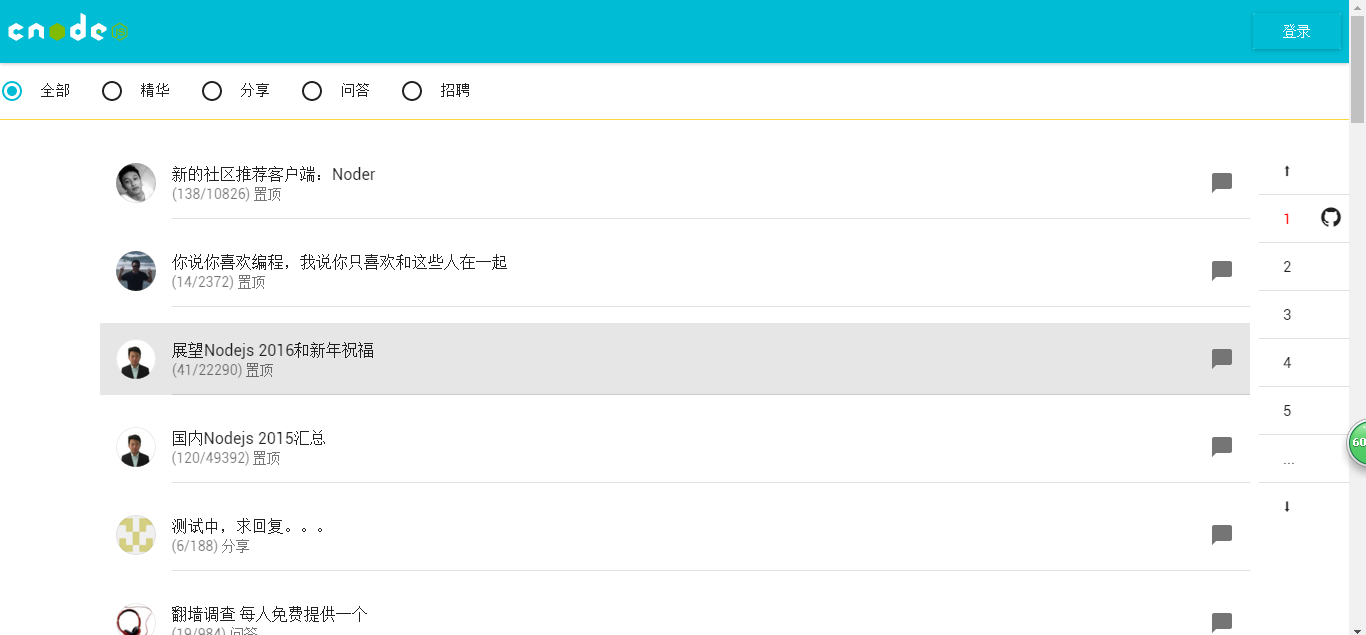
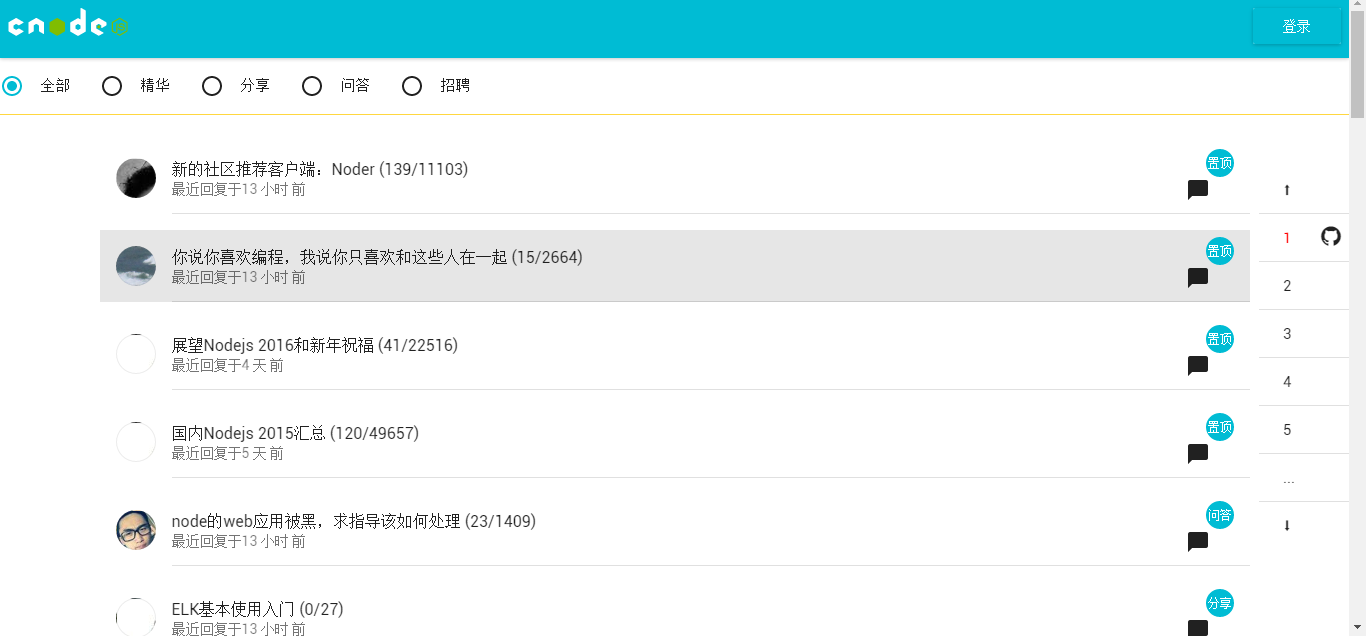
update

diff --git a/src/app/components/TopicItem.jsx b/src/app/components/TopicItem.jsx
@@ -19,7 +19,9 @@ import {List, ListItem} from 'material-ui/List';
 import Avatar from 'material-ui/Avatar';
 import Divider from 'material-ui/Divider';
 import CommunicationChatBubble from 'material-ui/svg-icons/communication/chat-bubble';
-
+import Badge from 'material-ui/Badge';
+import IconButton from 'material-ui/IconButton';
+import NotificationsIcon from 'material-ui/svg-icons/social/notifications';
 
 export default class TopicItem extends React.Component {
   constructor(props) {
@@ -60,9 +62,6 @@ export default class TopicItem extends React.Component {
       case 'ask':
         return '问答';
         break;
-      case 'good':
-        return '精华';
-        break;
       default:
         return '';
         break;
@@ -73,19 +72,27 @@ export default class TopicItem extends React.Component {
     const {topic} = this.props;
     const topcontent = topic.top
       ? '置顶'
-      : this.tabMap(topic.tab);
+      :(topic.good ? '精华' : this.tabMap(topic.tab));
     let lastreply = new moment(topic.last_reply_at).startOf('day').fromNow().replace('ago', '前').replace('hours', '小时').replace('days', '天');
-    let content = '(' + topic.reply_count + '/' + topic.visit_count + ') ' + topcontent;
-    let desc = '最近回复于' + lastreply + '(点击查看详情)';
+    let content = '(' + topic.reply_count + '/' + topic.visit_count + ')';
+    let desc = '最近回复于' + lastreply;
     let avatar = topic.author.avatar_url.replace(/^\/\//g, 'http://');
     return (
       <div>
         <List>
 
-          <ListItem leftAvatar={<Avatar src={avatar} />} primaryText={topic.title} secondaryText={content}
-            rightIcon={<CommunicationChatBubble />} onTouchTap={this.openDetail.bind(this,topic.id)}  />
-          <Divider inset={true} />
-      </List>
+          <ListItem leftAvatar={< Avatar src = {
+            avatar
+          } />} primaryText={topic.title + " " + content} secondaryText={desc}
+           rightIcon={
+            <Badge badgeContent = { topcontent } style={{top:0}} badgeStyle={{width:28,height:28,top: -5, right: 0}}
+           secondary = {true} >
+           <CommunicationChatBubble/>
+           </Badge>
+         }
+          onTouchTap={this.openDetail.bind(this, topic.id)}/>
+          <Divider inset={true}/>
+        </List>
 
       </div>
     )

diff --git a/src/app/components/Pagination.jsx b/src/app/components/Pagination.jsx
@@ -14,7 +14,7 @@ const rightPart = (
                     <IconButton
                         style={{marginTop:'-15px'}}
                         iconClassName="muidocs-icon-custom-github"
-                        href="https://github.com/wq123456/cnode-electron"
+                        href="https://github.com/503945930/cnode-pc"
                         linkButton={true}/>
                 </div>
 );
@@ -27,8 +27,9 @@ class Pagination extends React.Component {
         return {
             page: {
                 position: 'fixed',
-                right: '10px',
-                width: '80px',
+                top:164,
+                right: 10,
+                width: 80,
             },
         }
     }

diff --git a/src/app/components/TopicCatNav.jsx b/src/app/components/TopicCatNav.jsx
@@ -26,7 +26,7 @@ class TopicCatNav extends React.Component {
     return (
       <div style={{
         width:'100%',
-        position: 'fixed',
+        position: 'absolute',
         top: 80,
         borderBottom:'#FFD740 1px solid'
       }}>
